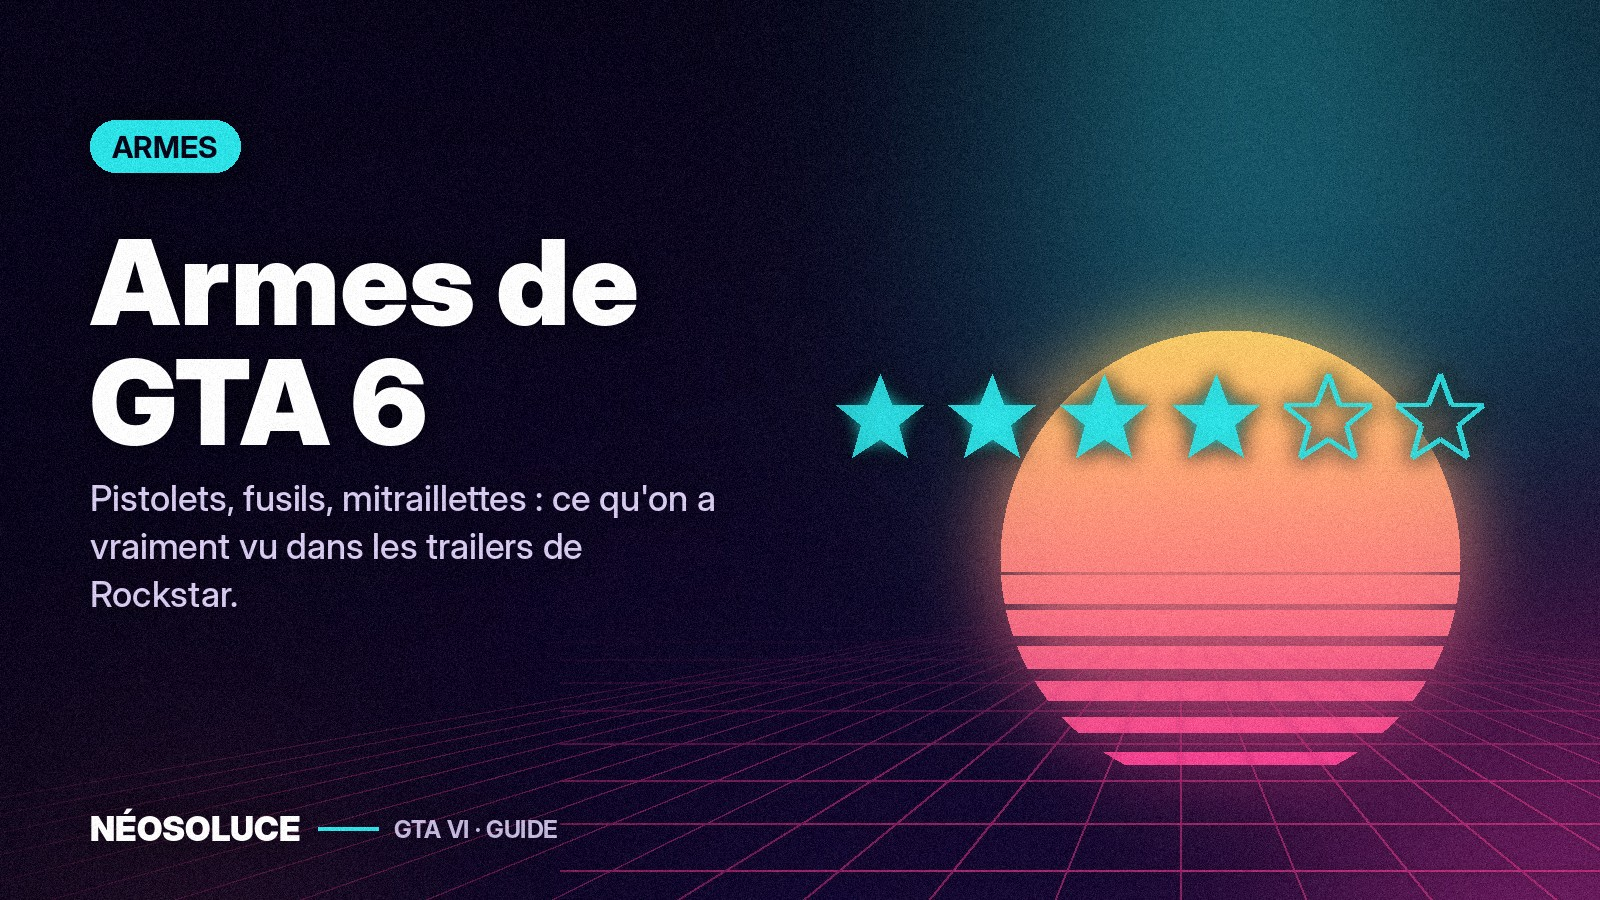
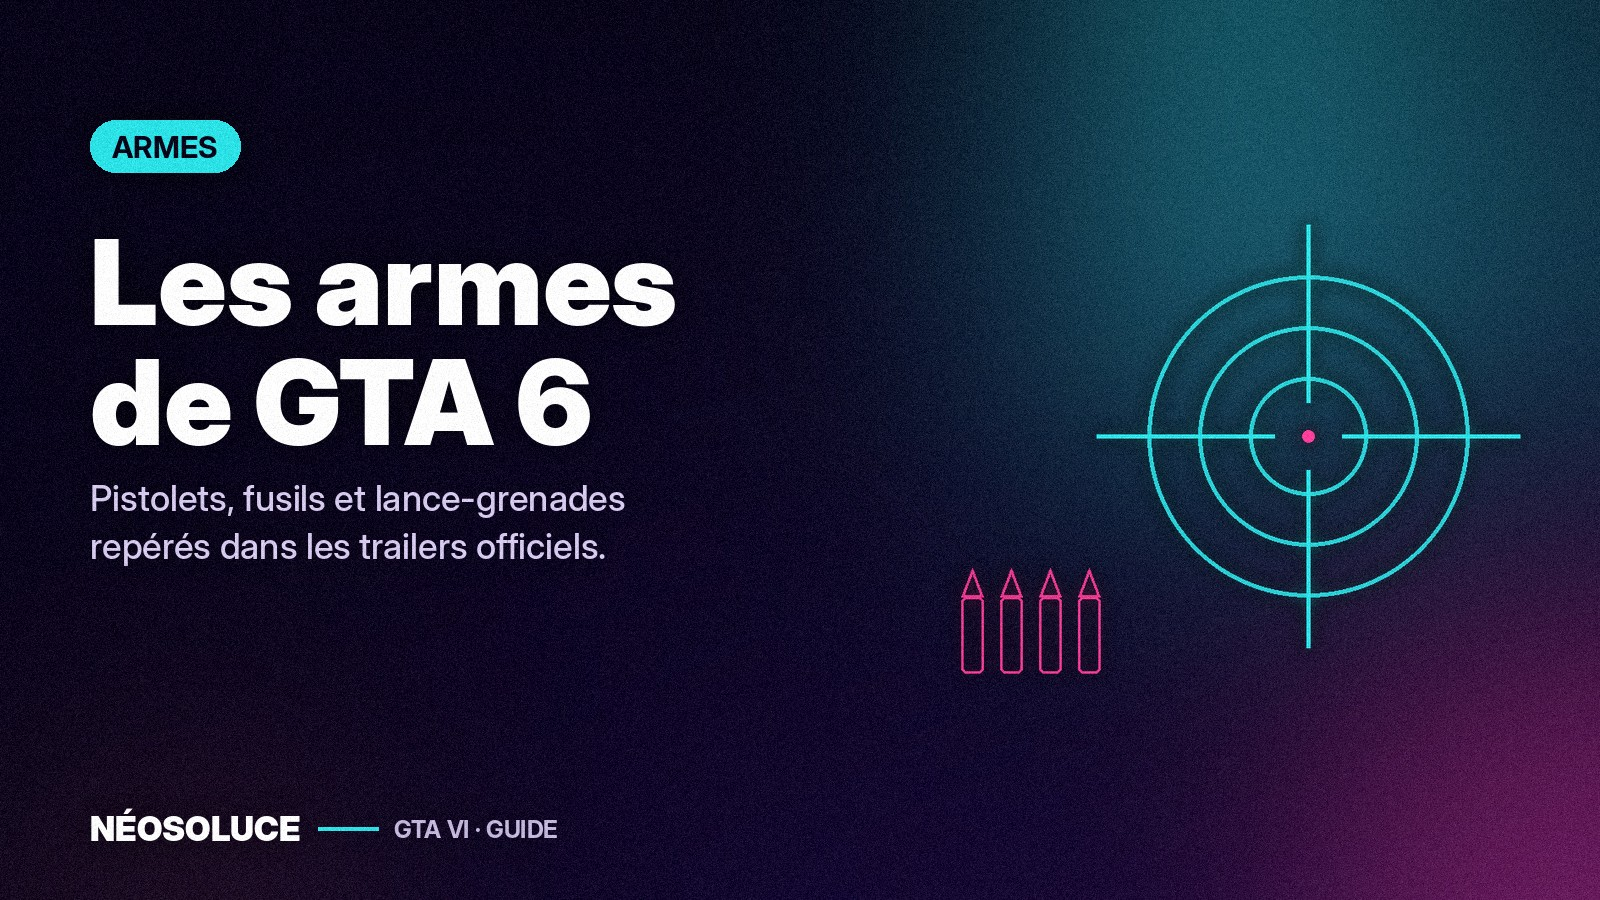
Couvertures : scènes thématiques à la place du soleil couchant

diff --git a/tools/make_cover.py b/tools/make_cover.py
@@ -3,7 +3,8 @@
 Usage :
     python3 tools/make_cover.py covers/<slug>.jpg "BADGE" "Titre ligne 1|Titre ligne 2" "Sous-titre" <motif> [accent]
 
-motif : carte | gameplay | vehicules | missions | online | infos | actu | astuce
+motif : carte | gameplay | vehicules | missions | online | infos | actu | astuce (ancien décor soleil)
+  ou une scène thématique : voiture | arme | peninsule | manette | disque | ecran | globe | play | calendrier | editions | coffre | palmiers | boussole | etoiles
 accent : rose (défaut) | cyan | soleil
 Aucun élément Rockstar (pas de logo, personnage, capture ni police du jeu).
 """
@@ -155,6 +156,230 @@ def motif(img, kind, accent):
     return Image.alpha_composite(img, neon_layer(f, accent, 5))
 
 
+# ---------- Scènes thématiques (remplacent le soleil couchant) ----------
+def _rr(d, box, r, **kw):
+    d.rounded_rectangle(box, r, **kw)
+
+
+def scene(img, kind, accent):
+    """Illustration néon originale et générique, propre au sujet de l'article."""
+    cx, cy = 1170, 450
+    A, B = accent, (CYAN if accent != CYAN else PINK)
+    def draw(f, color=None, width=5, blur=10, fit=(940, 1540, 450)):
+        """fit=(x0, x1, cy) : recadre la scène dans la zone de droite (le texte reste à gauche)."""
+        nonlocal img
+        layer = neon_layer(f, color or A, width, blur)
+        if fit:
+            x0, x1, cyy = fit
+            bb = layer.getbbox()
+            if bb:
+                crop = layer.crop(bb)
+                k = min((x1 - x0) / crop.width, 520 / crop.height, 1.0)
+                crop = crop.resize((int(crop.width * k), int(crop.height * k)), Image.LANCZOS)
+                layer = Image.new("RGBA", layer.size, (0, 0, 0, 0))
+                layer.paste(crop, (int(x0 + ((x1 - x0) - crop.width) / 2), int(cyy - crop.height / 2)))
+        img = Image.alpha_composite(img, layer)
+    if kind == "voiture":
+        def f(d, c, w):
+            body = [(700, 560), (730, 500), (860, 470), (960, 400), (1180, 385), (1300, 470), (1500, 500), (1540, 560)]
+            d.line(body + [(700, 560)], fill=c + (255,), width=w + 1, joint="curve")
+            d.line([(985, 470), (1030, 415), (1170, 410), (1240, 470), (985, 470)], fill=B + (230,), width=w - 1)
+            for x in (870, 1380):
+                d.ellipse([x - 62, 500, x + 62, 624], outline=c + (255,), width=w + 1)
+                d.ellipse([x - 24, 538, x + 24, 586], outline=B + (230,), width=w - 1)
+            for i in range(7):
+                y = 410 + i * 28
+                d.line([(520 - i * 12, y), (660 - i * 6, y)], fill=B + (150,), width=3)
+        draw(f)
+    elif kind == "arme":
+        def f(d, c, w):
+            for R in (190, 130, 70):
+                d.ellipse([cx - R, cy - R, cx + R, cy + R], outline=c + (230,), width=w)
+            d.line([(cx - 250, cy), (cx - 40, cy)], fill=c + (255,), width=w)
+            d.line([(cx + 40, cy), (cx + 250, cy)], fill=c + (255,), width=w)
+            d.line([(cx, cy - 250), (cx, cy - 40)], fill=c + (255,), width=w)
+            d.line([(cx, cy + 40), (cx, cy + 250)], fill=c + (255,), width=w)
+            d.ellipse([cx - 7, cy - 7, cx + 7, cy + 7], fill=B + (255,))
+            for i in range(4):
+                x = 760 + i * 46
+                _rr(d, [x, 640, x + 26, 730], 6, outline=B + (230,), width=3)
+                d.polygon([(x, 640), (x + 26, 640), (x + 13, 606)], outline=B + (230,), width=3)
+        draw(f)
+    elif kind == "peninsule":
+        pts = [(1090, 190), (1210, 190), (1250, 250), (1235, 330), (1270, 410), (1300, 500), (1340, 590), (1330, 680), (1275, 700),
+               (1235, 640), (1195, 560), (1160, 480), (1120, 420), (1070, 380), (950, 360), (880, 330), (950, 290), (1060, 270)]
+        def f(d, c, w):
+            d.polygon(pts, outline=c + (255,), width=w)
+            for k, sc in enumerate((0.8, 0.6, 0.4)):
+                q = [(1190 + (x - 1190) * sc, 440 + (y - 440) * sc) for x, y in pts]
+                d.polygon(q, outline=(B if k % 2 == 0 else c) + (150,), width=2)
+            d.ellipse([1210 - 16, 560 - 16, 1210 + 16, 560 + 16], outline=SUN + (255,), width=5)
+            d.line([(1210, 560 - 18), (1210, 500)], fill=SUN + (255,), width=4)
+            d.ellipse([1210 - 7, 492 - 7, 1210 + 7, 492 + 7], fill=SUN + (255,))
+        draw(f)
+    elif kind == "manette":
+        def f(d, c, w):
+            body = [(780, 410), (880, 350), (1160, 350), (1260, 350), (1540, 350), (1640 - 40, 410), (1610 - 40, 600), (1500, 640), (1400, 560), (1010, 560), (910, 640), (810, 600)]
+            body = [(x - 150, y) for x, y in body]
+            d.line(body + [body[0]], fill=c + (255,), width=w + 1, joint="curve")
+            d.ellipse([740 + 40 - 150 + 150, 440, 740 + 100 - 150 + 150, 500], outline=B + (230,), width=w)
+            # croix
+            for dx, dy in ((0, -34), (0, 34), (-34, 0), (34, 0)):
+                _rr(d, [800 + dx - 15, 470 + dy - 15, 800 + dx + 15, 470 + dy + 15], 5, outline=B + (230,), width=3)
+            for dx, dy, col in ((0, -42, B), (0, 42, B), (-42, 0, B), (42, 0, B)):
+                d.ellipse([1250 + dx - 17, 465 + dy - 17, 1250 + dx + 17, 465 + dy + 17], outline=col + (230,), width=3)
+            d.ellipse([930 - 36, 540 - 36, 930 + 36, 540 + 36], outline=c + (230,), width=w)
+            d.ellipse([1130 - 36, 540 - 36, 1130 + 36, 540 + 36], outline=c + (230,), width=w)
+        draw(f)
+    elif kind == "disque":
+        def f(d, c, w):
+            _rr(d, [820, 330, 1500, 600], 28, outline=c + (255,), width=w + 1)
+            _rr(d, [860, 370, 1460, 560], 14, outline=B + (150,), width=2)
+            for i in range(12):
+                x = 880 + i * 48
+                if i < 8:
+                    _rr(d, [x, 440, x + 34, 520], 6, fill=(c if i % 3 else B) + (235,))
+                else:
+                    _rr(d, [x, 440, x + 34, 520], 6, outline=c + (160,), width=3)
+            d.line([(880, 400), (1100, 400)], fill=B + (230,), width=w)
+            d.ellipse([1440 - 8, 350 - 8, 1440 + 8, 350 + 8], fill=SUN + (255,))
+            for i in range(6):
+                d.line([(1500, 400 + i * 28), (1556, 400 + i * 28)], fill=c + (230,), width=4)
+        draw(f)
+    elif kind == "ecran":
+        def f(d, c, w):
+            _rr(d, [830, 250, 1510, 590], 22, outline=c + (255,), width=w + 1)
+            _rr(d, [860, 280, 1480, 560], 10, outline=B + (140,), width=2)
+            d.line([(1170, 590), (1170, 650)], fill=c + (255,), width=w)
+            d.line([(1060, 655), (1280, 655)], fill=c + (255,), width=w + 1)
+            for i in range(4):
+                d.line([(900, 330 + i * 40), (900 + 300 - i * 50, 330 + i * 40)], fill=B + (220,), width=4)
+            d.polygon([(1280, 380), (1280, 480), (1370, 430)], outline=SUN + (255,), width=4)
+            _rr(d, [900, 690, 1440, 740], 10, outline=B + (200,), width=3)
+        draw(f)
+    elif kind == "globe":
+        def f(d, c, w):
+            R = 200
+            d.ellipse([cx - R, cy - R, cx + R, cy + R], outline=c + (255,), width=w)
+            for k in (60, 130):
+                d.ellipse([cx - k, cy - R, cx + k, cy + R], outline=B + (180,), width=2)
+            for y in (-110, 0, 110):
+                half = math.sqrt(R * R - y * y)
+                d.line([(cx - half, cy + y), (cx + half, cy + y)], fill=B + (180,), width=2)
+            for (a, b_) in ((-80, -90), (90, 40), (-30, 110), (20, -140)):
+                x, y = cx + a, cy + b_
+                d.ellipse([x - 11, y - 11, x + 11, y + 11], fill=SUN + (255,))
+                d.line([(x, y), (cx, cy)], fill=SUN + (110,), width=2)
+        draw(f)
+    elif kind == "play":
+        def f(d, c, w):
+            _rr(d, [800, 290, 1540, 650], 30, outline=c + (255,), width=w + 1)
+            for i in range(10):
+                x = 835 + i * 71
+                _rr(d, [x, 305, x + 28, 325], 4, outline=B + (200,), width=2)
+                _rr(d, [x, 615, x + 28, 635], 4, outline=B + (200,), width=2)
+            d.polygon([(1100, 400), (1100, 540), (1230, 470)], fill=SUN + (245,))
+            d.line([(840, 580), (1500, 580)], fill=B + (170,), width=3)
+            d.line([(840, 580), (1180, 580)], fill=c + (255,), width=6)
+        draw(f)
+    elif kind == "calendrier":
+        def f(d, c, w):
+            _rr(d, [860, 260, 1380, 640], 26, outline=c + (255,), width=w + 1)
+            d.line([(860, 350), (1380, 350)], fill=c + (255,), width=w)
+            for x in (960, 1280):
+                d.line([(x, 225), (x, 290)], fill=B + (255,), width=w + 2)
+            for r in range(3):
+                for k in range(5):
+                    x, y = 905 + k * 90, 395 + r * 80
+                    if (r, k) == (1, 3):
+                        d.ellipse([x - 8, y - 8, x + 62, y + 62], outline=SUN + (255,), width=5)
+                    else:
+                        _rr(d, [x, y, x + 46, y + 46], 8, outline=B + (140,), width=2)
+            cx2, cy2 = 1400, 590
+            d.ellipse([cx2 - 100, cy2 - 100, cx2 + 100, cy2 + 100], outline=B + (255,), width=w)
+            d.line([(cx2, cy2), (cx2, cy2 - 62)], fill=SUN + (255,), width=6)
+            d.line([(cx2, cy2), (cx2 + 44, cy2 + 20)], fill=SUN + (255,), width=6)
+        draw(f)
+    elif kind == "editions":
+        def f(d, c, w):
+            for i, col in enumerate((B, c, SUN)):
+                x, y = 880 + i * 130, 560 - i * 110
+                _rr(d, [x, y - 230, x + 330, y + 90], 22, outline=col + (255,), width=w + 1)
+                d.line([(x + 30, y - 160), (x + 200, y - 160)], fill=col + (200,), width=4)
+                d.line([(x + 30, y - 120), (x + 150, y - 120)], fill=col + (140,), width=3)
+            pts = [(1500 + (62 if k % 2 == 0 else 26) * math.cos(math.radians(-90 + k * 36)),
+                    320 + (62 if k % 2 == 0 else 26) * math.sin(math.radians(-90 + k * 36))) for k in range(10)]
+            d.polygon(pts, fill=SUN + (245,))
+        draw(f)
+    elif kind == "coffre":
+        def f(d, c, w):
+            for R, wd in ((240, w + 2), (190, w), (60, w)):
+                d.ellipse([cx - R, cy - R, cx + R, cy + R], outline=c + (255,), width=wd)
+            for a in range(0, 360, 45):
+                x2, y2 = cx + 170 * math.cos(math.radians(a)), cy + 170 * math.sin(math.radians(a))
+                d.line([(cx, cy), (x2, y2)], fill=B + (230,), width=w - 1)
+                d.ellipse([x2 - 10, y2 - 10, x2 + 10, y2 + 10], fill=B + (255,))
+            for a in range(22, 360, 45):
+                d.ellipse([cx + 215 * math.cos(math.radians(a)) - 7, cy + 215 * math.sin(math.radians(a)) - 7,
+                           cx + 215 * math.cos(math.radians(a)) + 7, cy + 215 * math.sin(math.radians(a)) + 7], fill=SUN + (255,))
+            d.ellipse([cx - 22, cy - 22, cx + 22, cy + 22], fill=SUN + (255,))
+        draw(f)
+    elif kind == "palmiers":
+        def f(d, c, w):
+            def palm(x, y, h, lean):
+                top = (x + lean, y - h)
+                d.line([(x, y), (x + lean * 0.4, y - h * 0.55), top], fill=c + (255,), width=w + 1, joint="curve")
+                for a in (-160, -125, -90, -55, -20, 15, 195):
+                    L = 120 + (a % 40)
+                    ex = top[0] + L * math.cos(math.radians(a))
+                    ey = top[1] + L * math.sin(math.radians(a)) * 0.6 + 55
+                    mx, my = (top[0] + ex) / 2, min(top[1], ey) - 38
+                    d.line([top, (mx, my), (ex, ey)], fill=B + (240,), width=w - 1, joint="curve")
+            palm(1130, 640, 330, -50)
+            palm(1330, 640, 250, 60)
+            palm(960, 640, 190, -30)
+            for i in range(4):
+                y = 665 + i * 22
+                pts = [(700 + k * 20, y + 7 * math.sin(k * 0.7 + i)) for k in range(46)]
+                d.line(pts, fill=(B if i % 2 else c) + (200 - i * 30,), width=3)
+            # flamant stylisé
+            fx, fy = 1470, 590
+            d.line([(fx, fy), (fx, fy + 70)], fill=SUN + (255,), width=3)
+            d.ellipse([fx - 40, fy - 24, fx + 30, fy + 16], outline=SUN + (255,), width=4)
+            d.arc([fx + 6, fy - 100, fx + 56, fy - 10], start=270, end=90, fill=SUN + (255,), width=4)
+            d.ellipse([fx + 40, fy - 104, fx + 56, fy - 90], outline=SUN + (255,), width=3)
+        draw(f)
+    elif kind == "boussole":
+        def f(d, c, w):
+            R = 210
+            d.ellipse([cx - R, cy - R, cx + R, cy + R], outline=c + (255,), width=w)
+            d.ellipse([cx - R + 28, cy - R + 28, cx + R - 28, cy + R - 28], outline=B + (150,), width=2)
+            for a in range(0, 360, 15):
+                r1 = R - (34 if a % 90 == 0 else 20)
+                d.line([(cx + r1 * math.cos(math.radians(a)), cy + r1 * math.sin(math.radians(a))),
+                        (cx + (R - 6) * math.cos(math.radians(a)), cy + (R - 6) * math.sin(math.radians(a)))], fill=B + (220,), width=3)
+            d.polygon([(cx, cy - 170), (cx + 34, cy), (cx, cy + 170), (cx - 34, cy)], outline=c + (255,), width=w)
+            d.polygon([(cx, cy - 170), (cx + 34, cy), (cx - 34, cy)], fill=SUN + (235,))
+            d.ellipse([cx - 12, cy - 12, cx + 12, cy + 12], fill=B + (255,))
+        draw(f)
+    elif kind == "etoiles":
+        def f(d, c, w):
+            for i in range(6):
+                x0, y0, R = 850 + i * 112, 450, 48
+                pts = [(x0 + (R if k % 2 == 0 else R * 0.42) * math.cos(math.radians(-90 + k * 36)),
+                        y0 + (R if k % 2 == 0 else R * 0.42) * math.sin(math.radians(-90 + k * 36))) for k in range(10)]
+                if i < 4:
+                    d.polygon(pts, fill=c + (240,))
+                else:
+                    d.line(pts + [pts[0]], fill=c + (230,), width=w)
+            d.line([(820, 560), (1530, 560)], fill=B + (200,), width=4)
+            for i in range(9):
+                x = 830 + i * 80
+                d.line([(x, 590), (x + 36, 590)], fill=(B if i % 2 else c) + (220,), width=7)
+        draw(f)
+    return img
+
+
 def grain(img, amount=10):
     n = np.random.default_rng(7).normal(0, amount, (H, W, 1))
     arr = np.asarray(img.convert("RGB")).astype(np.float32) + n
@@ -198,12 +423,18 @@ def text(img, badge, title_lines, subtitle, accent):
     return Image.alpha_composite(Image.alpha_composite(img, sh), layer)
 
 
+SCENES = {"voiture", "arme", "peninsule", "manette", "disque", "ecran", "globe", "play", "calendrier", "editions", "coffre", "palmiers", "boussole", "etoiles"}
+
+
 def make(out, badge, title, subtitle, kind, accent_name="rose"):
     accent = ACCENTS.get(accent_name, PINK)
     img = background(accent)
-    img = sunset(img, 1230, 560, 230)
-    img = grid(img, PINK)
-    img = motif(img, kind, accent if kind != "carte" else CYAN)
+    if kind in SCENES:
+        img = scene(img, kind, accent)
+    else:
+        img = sunset(img, 1230, 560, 230)
+        img = grid(img, PINK)
+        img = motif(img, kind, accent if kind != "carte" else CYAN)
     # voile sombre à gauche pour la lisibilité du texte
     v = np.zeros((H, W, 4), dtype=np.uint8)
     v[..., :3] = NIGHT

diff --git a/tools/regen_covers.py b/tools/regen_covers.py
@@ -1,0 +1,30 @@
+"""Régénère toutes les couvertures d'articles avec leur scène thématique.
+Usage : python3 tools/regen_covers.py [slug ...]  (sans argument : toutes)"""
+import os, sys
+sys.path.insert(0, os.path.dirname(os.path.abspath(__file__)))
+from make_cover import make
+
+# slug : (badge, titre, sous-titre, scène, accent)
+COVERS = {
+    "gta-6-date-sortie": ("SORTIE", "Heure de|sortie", "19 novembre 2026 : heure exacte en Belgique et en France, préchargement et astuces.", "calendrier", "cyan"),
+    "gta-6-editions": ("ÉDITIONS", "Standard ou|Ultimate ?", "Prix, bonus de précommande et contenu de chaque édition : laquelle choisir ?", "editions", "soleil"),
+    "gta-6-online": ("ONLINE", "GTA 6|Online ?", "Ce que Rockstar a dit, ce qui est rapporté et ce qui reste à confirmer.", "globe", "cyan"),
+    "gta-6-gameplay": ("GAMEPLAY", "Gameplay|de GTA 6", "Police, vols de voitures, combats, relation et corps : tout ce qu'on sait.", "etoiles", "rose"),
+    "gta-6-carte-leonida": ("CARTE", "La carte|de Leonida", "Vice City, Keys, Grassrivers : les régions, la taille et les lieux inspirés de la Floride.", "peninsule", "soleil"),
+    "gta-6-vehicules": ("VÉHICULES", "Tous les|véhicules", "Voitures, motos, bateaux, hélicos et avions déjà confirmés pour GTA 6.", "voiture", "rose"),
+    "gta-6-missions": ("MISSIONS", "Missions et|braquages", "Petits coups, gros braquages et choix : tout ce qui a été montré, sans spoiler.", "coffre", "rose"),
+    "gta-6-francophonie": ("FRANCOPHONIE", "GTA 6 en|francophonie", "Belgique, France, Suisse, Québec : heure de sortie, prix et version française.", "globe", "soleil"),
+    "gta-6-pc": ("PC", "GTA 6|sur PC ?", "Date, rumeurs et historique de Rockstar : ce qu'on sait vraiment de la version PC.", "ecran", "rose"),
+    "gta-6-trailers": ("TRAILERS", "Trailers|décortiqués", "Détails, références et ce que Rockstar a vraiment montré dans ses vidéos.", "play", "rose"),
+    "gta-6-trailer-lancement": ("TRAILER", "Trailer de|lancement", "Tout ce qu'on a appris du dernier trailer de GTA 6, plan par plan.", "play", "cyan"),
+    "gta-6-armes": ("ARMES", "Les armes|de GTA 6", "Pistolets, fusils et lance-grenades repérés dans les trailers officiels.", "arme", "cyan"),
+    "gta-6-taille-go-place-disque": ("TAILLE", "Combien|de Go ?", "Taille estimée, préchargement et astuces pour libérer de la place sur ta console.", "disque", "cyan"),
+    "gta-6-codes-de-triche": ("CODES", "Codes de|triche ?", "Rockstar n'a rien annoncé : ce qu'on sait et les faux codes à éviter.", "manette", "rose"),
+    "gta-6-activites-faune": ("ACTIVITÉS", "Activités|et faune", "Jet-ski, golf, plongée, 170 espèces animales : tout ce que Rockstar a détaillé.", "palmiers", "soleil"),
+    "gta-6-tout-savoir": ("GUIDE", "Toutes les|infos GTA VI", "La page de référence : sortie, prix, carte, personnages, gameplay et FAQ.", "boussole", "rose"),
+}
+if __name__ == "__main__":
+    for slug in (sys.argv[1:] or COVERS):
+        b, t, sub, kind, acc = COVERS[slug]
+        make(f"covers/{slug}.jpg", b, t, sub, kind, acc)
+        print("ok", slug)
